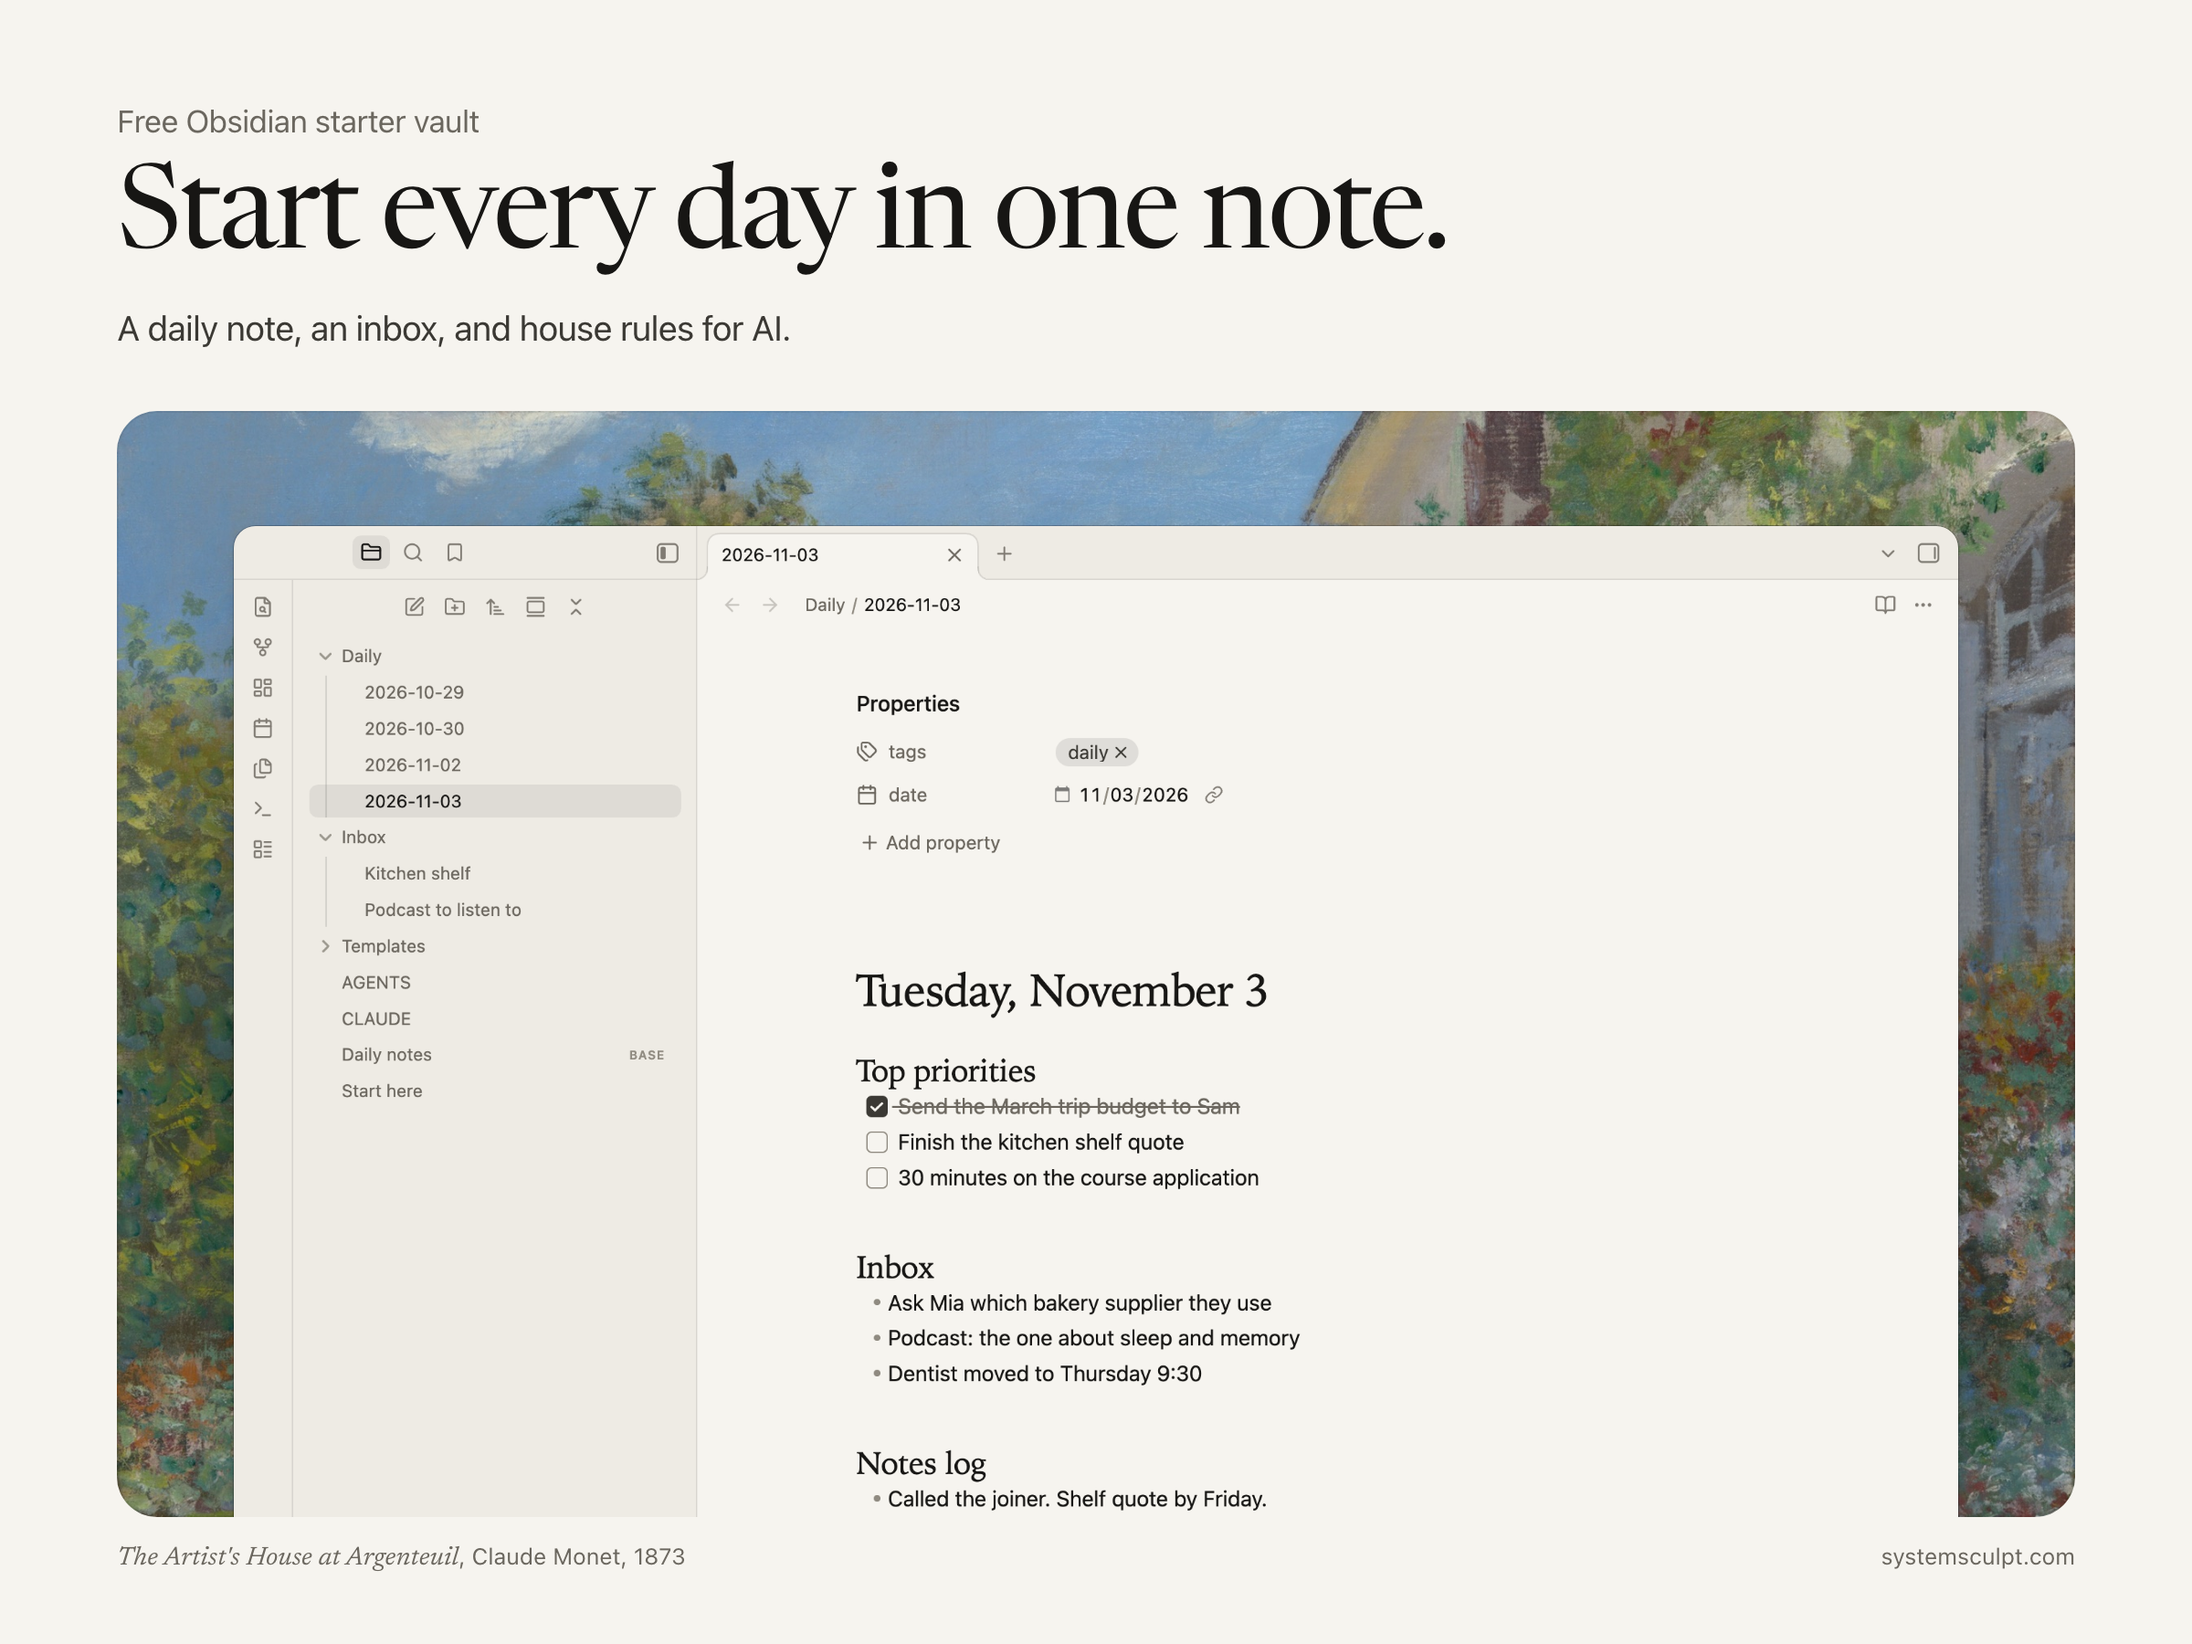
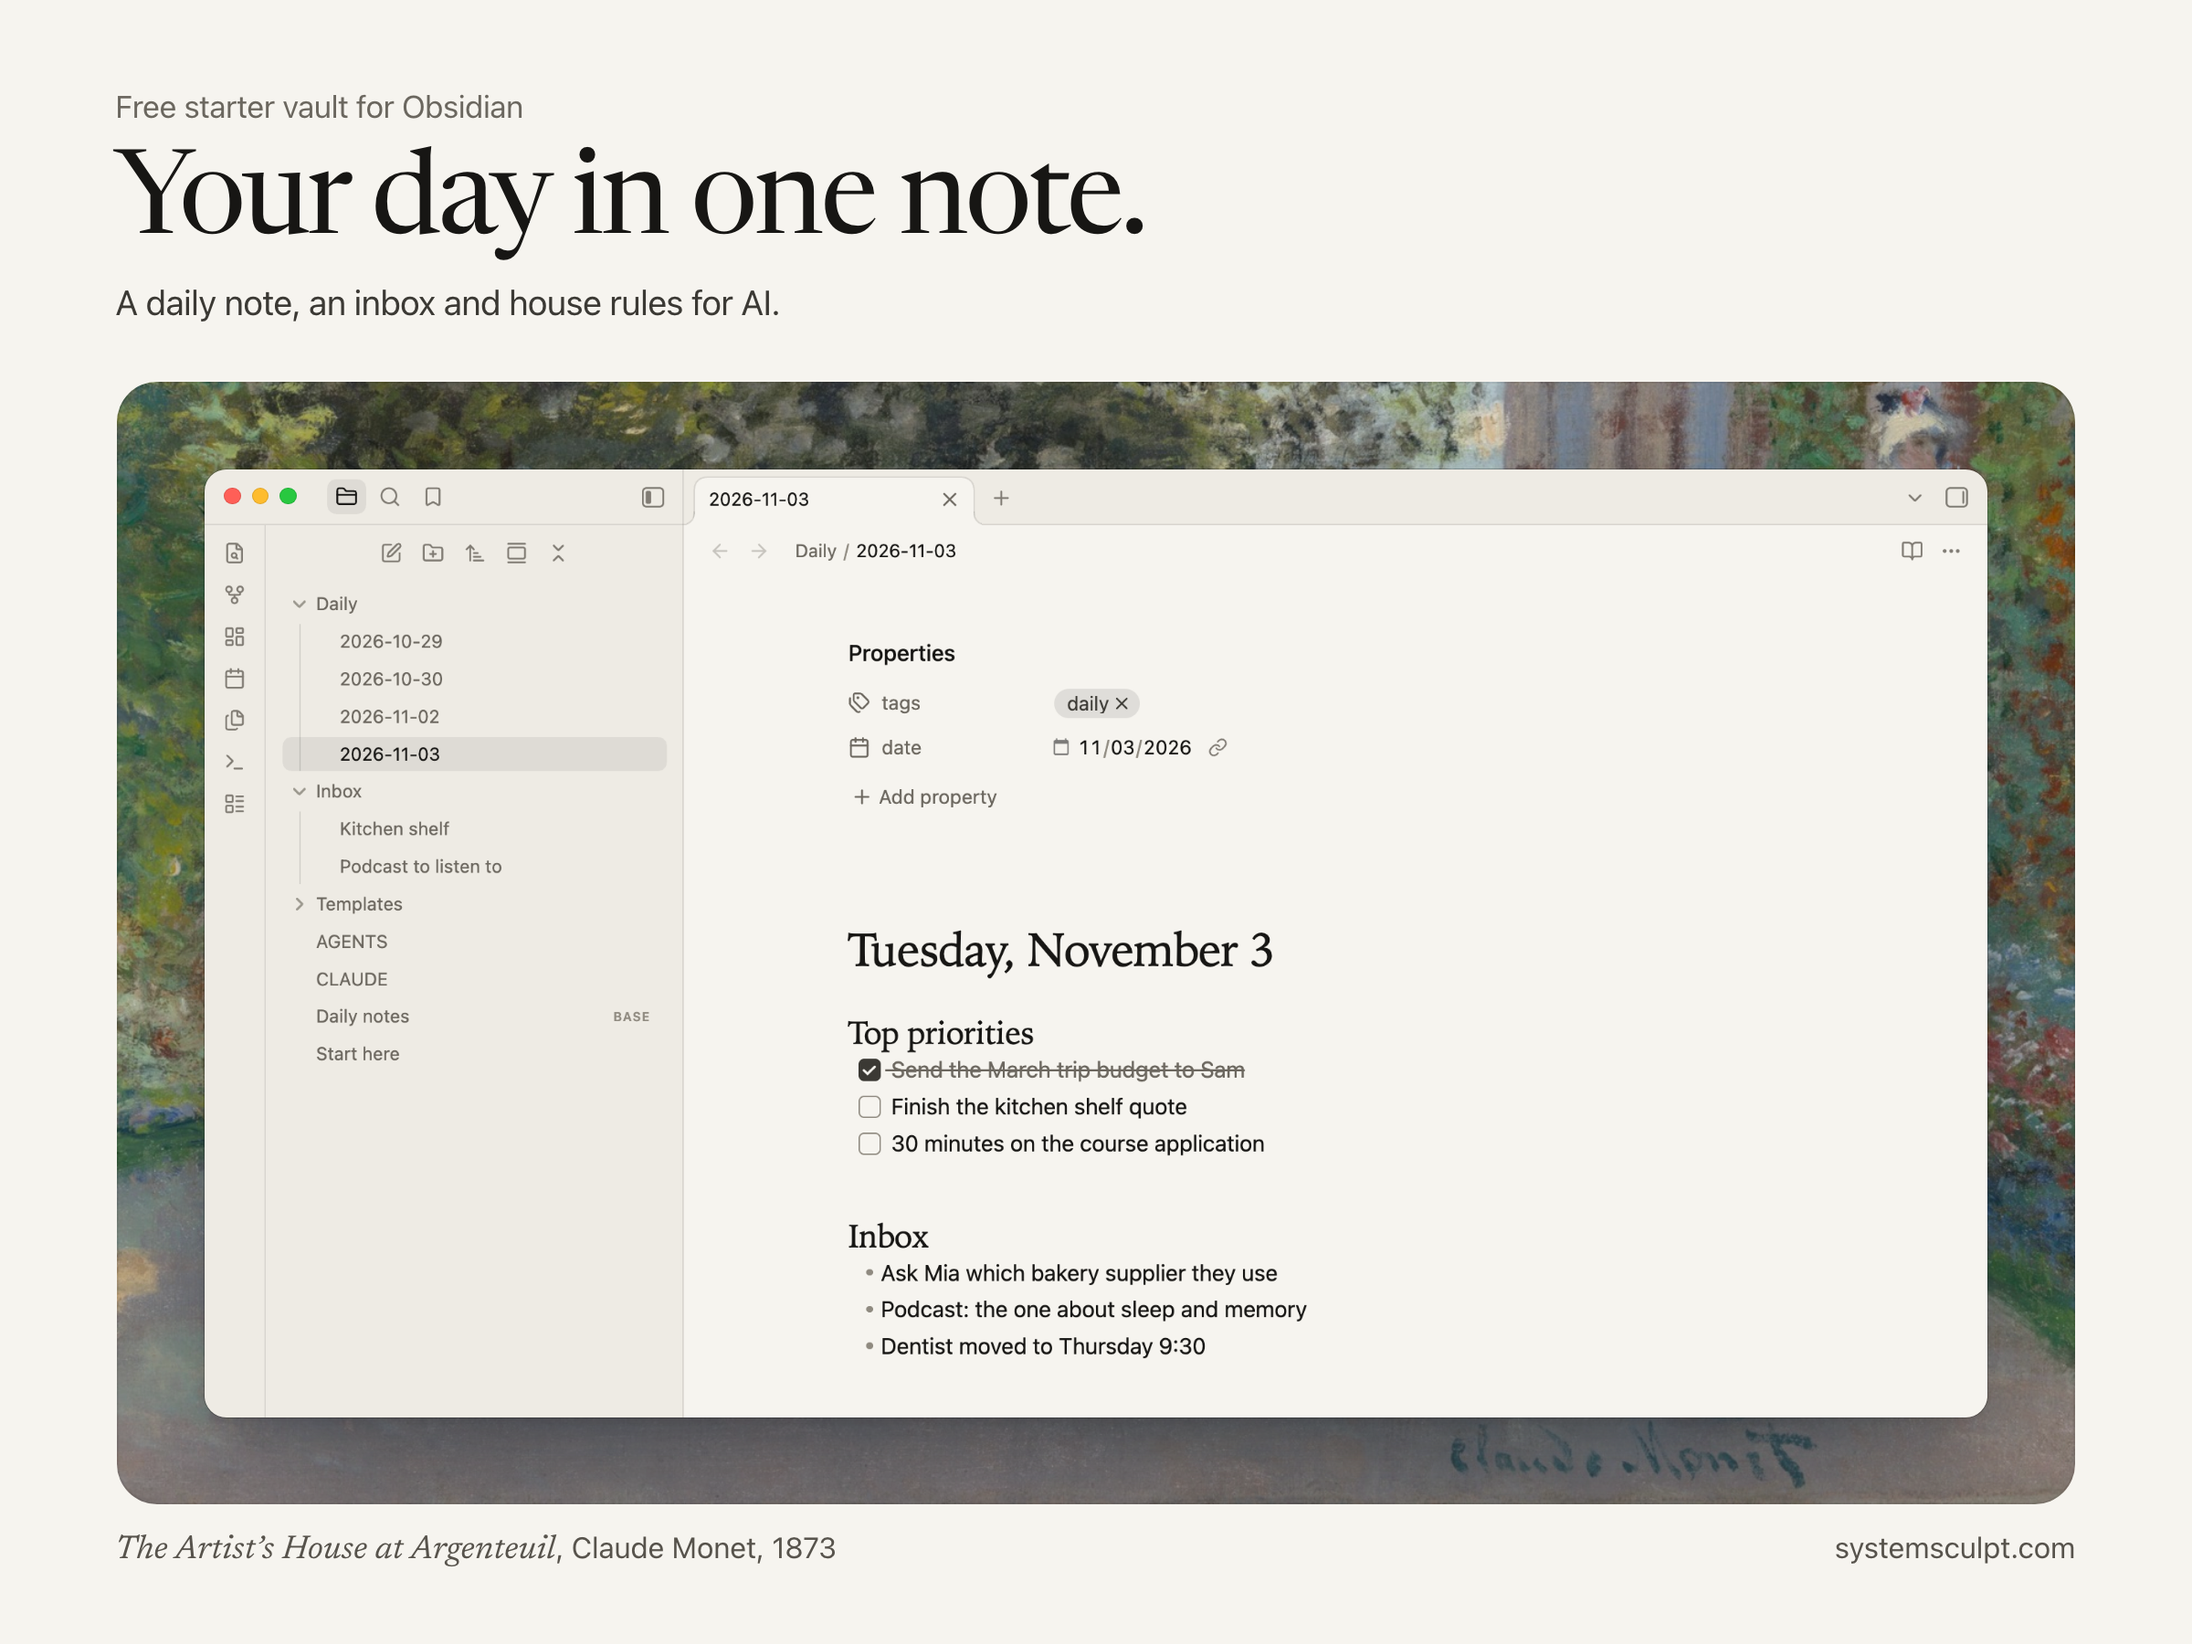
README picture and square from the reviewed build; vault files synced; no paid vault named until it is on sale (T-4830)

Changed region(s): [[0.0312, 0.0622, 0.9688, 0.9644], [0.1562, 0.3733, 0.2188, 0.6844], [0.4688, 0.4356, 0.5312, 0.4978]]

diff --git a/Starter vault/AGENTS.md b/Starter vault/AGENTS.md
@@ -5,10 +5,10 @@ This folder is an Obsidian vault: plain Markdown notes that a person reads and w
 ## Layout
 
 - `Daily/YYYY-MM-DD.md`: one note per day, made from `Templates/Daily note.md`. The file name is the date.
-- `Inbox/`: loose notes that haven't been sorted yet. New notes from Obsidian land here.
+- `Inbox/`: loose notes that haven’t been sorted yet. New notes from Obsidian land here.
 - `Templates/`: templates Obsidian fills in. `{{date}}`, `{{time}}` and `{{title}}` are placeholders; leave them as they are.
 - `Daily notes.base`: an Obsidian Bases view (YAML). Edit it only when asked.
-- `.obsidian/`: Obsidian's settings. Don't touch it.
+- `.obsidian/`: Obsidian’s settings. Don’t touch it.
 
 ## Conventions
 
@@ -16,19 +16,19 @@ This folder is an Obsidian vault: plain Markdown notes that a person reads and w
 - Link notes with wikilinks: `[[2026-11-03]]`, `[[Note name]]`. Keep links working when you rename or move a note.
 - Tasks are `- [ ]` and `- [x]`. Never mark a task done unless the person says it is.
 - Dates are `YYYY-MM-DD`.
-- A daily note's sections, in order: Top priorities, Inbox, Notes log, Open loops, End-of-day review (Recap, Carry forward, Tomorrow).
+- A daily note’s sections, in order: Top priorities, Inbox, Notes log, Open loops, End-of-day review (Recap, Carry forward, Tomorrow).
 
 ## Rules
 
-- These are someone's own notes. Keep their words; don't rewrite them unless asked.
+- These are someone’s own notes. Keep their words; don’t rewrite them unless asked.
 - Ask before you delete a note, move more than a few notes, or change a template.
-- To create today's note, copy `Templates/Daily note.md` to `Daily/YYYY-MM-DD.md` and fill in the date placeholders.
+- To create today’s note, copy `Templates/Daily note.md` to `Daily/YYYY-MM-DD.md` and fill in the date placeholders.
 - When sorting the inbox, move each item into the note it belongs to and link back to where it came from. Leave anything unclear in `Inbox/` and say so.
 - Say what you changed, file by file, when you finish.
 
 ## Common requests
 
-- "Sort my inbox": move dated items into that day's note, everything else into a new or existing note; leave what's unclear.
+- "Sort my inbox": move dated items into that day’s note, everything else into a new or existing note; leave what’s unclear.
 - "Review today": fill in Recap from the Notes log, list unfinished tasks under Carry forward, suggest one line for Tomorrow.
-- "Carry forward": copy yesterday's unfinished tasks into today's Top priorities or Open loops.
+- "Carry forward": copy yesterday’s unfinished tasks into today’s Top priorities or Open loops.
 - "What did I do this week?": read the last seven daily notes and answer with links to each day.

diff --git a/Starter vault/Start here.md b/Starter vault/Start here.md
@@ -1,26 +1,26 @@
 # Start here
 
-A small vault that does one thing well: a daily note, an inbox, and instructions an AI agent can follow.
+A small vault that does one thing well: a daily note, an inbox and instructions an AI agent can follow.
 
 ## Use it
 
-1. Click **Open today's daily note** in the left ribbon. It opens on its own each time you start Obsidian, too.
-2. Put anything you don't want to lose in `Inbox`. New notes land there.
-3. At the end of the day, fill in the review at the bottom of today's note.
+1. Click **Open today’s daily note** in the left ribbon. It opens on its own each time you start Obsidian, too.
+2. Put anything you don’t want to lose in `Inbox`. New notes land there.
+3. At the end of the day, fill in the review at the bottom of today’s note.
 
-[[Daily notes.base|Daily notes]] lists every day you've written, newest first.
+[[Daily notes.base|Daily notes]] lists every day you’ve written, newest first.
 
 ## Work on it with AI
 
 `AGENTS.md` and `CLAUDE.md` tell Claude Code, Codex and other coding agents how this vault works. Open a terminal in this folder and run `claude` or `codex`, then ask, for example:
 
-> Sort my inbox. Move anything with a date into that day's note. Ask before you delete anything.
+> Sort my inbox. Move anything with a date into that day’s note. Ask before you delete anything.
 
 The agent reads and writes ordinary Markdown files. Whatever it reads goes to the provider behind the agent you use.
 
-To chat with Claude Code or Codex inside Obsidian, install the free [SystemSculpt](https://obsidian.md/plugins?id=systemsculpt-ai) plugin. It's optional; nothing here needs it.
+To chat with Claude Code or Codex inside Obsidian, install the free [SystemSculpt](https://obsidian.md/plugins?id=systemsculpt-ai) plugin. It’s optional; nothing here needs it.
 
-## What's inside
+## What’s inside
 
 - `Daily/`: one note per day, named `YYYY-MM-DD`.
 - `Inbox/`: loose notes, waiting to be sorted.
@@ -28,8 +28,8 @@ To chat with Claude Code or Codex inside Obsidian, install the free [SystemSculp
 - `Daily notes.base`: a table of your daily notes.
 - `AGENTS.md`, `CLAUDE.md`: house rules for AI agents.
 
-Everything uses Obsidian's core plugins: Daily notes, Templates and Bases. No community plugins.
+Everything uses Obsidian’s core plugins: Daily notes, Templates and Bases. No community plugins.
 
-Made by [SystemSculpt](https://systemsculpt.com). Free to use and change.
+Made by [SystemSculpt](https://systemsculpt.com). CC BY 4.0: use, change and share it, with credit to SystemSculpt.
 
 Want more? [[Next step]]

diff --git a/README.md b/README.md
@@ -2,28 +2,24 @@
 
 A daily note, an inbox and house rules for AI. Free, from [SystemSculpt](https://systemsculpt.com).
 
-![The starter vault's daily note in Obsidian](.github/preview.png)
+![The starter vault’s daily note in Obsidian](.github/preview.png)
 
 ## Use it
 
 1. [Download the zip](https://github.com/SystemSculpt/obsidian-starter-vault/releases/latest), or clone this repo.
 2. In Obsidian, choose **Open folder as vault** and pick `Starter vault`.
-3. Click **Open today's daily note** in the left ribbon.
+3. Click **Open today’s daily note** in the left ribbon.
 
-## What's inside
+## What’s inside
 
 - **Daily note.** Opens by itself each morning: priorities, inbox, notes, open loops and an end-of-day review.
 - **Inbox.** New notes land there until you sort them.
-- **AGENTS.md and CLAUDE.md.** Claude Code and Codex know how the vault works from the first minute.
-- **Daily notes view.** Every day you've written, in one table.
+- **AGENTS.md and CLAUDE.md.** House rules Claude Code and Codex read before they change anything.
+- **Daily notes view.** Every day you’ve written, in one table.
 
 Plain Markdown. Core plugins only: Daily notes, Templates and Bases.
 
 To chat with Claude Code or Codex inside Obsidian, add the free [SystemSculpt plugin](https://obsidian.md/plugins?id=systemsculpt-ai).
-
-## Want more?
-
-The **AI-ready vault** adds folders, eight agent skills, 60 prompts and an inbox for iPhone captures. See it in the [SystemSculpt shop](https://systemsculpt.com/shop?utm_source=github&utm_medium=readme&utm_campaign=starter-vault).
 
 ## Licence
 

diff --git a/Starter vault/Next step.md b/Starter vault/Next step.md
@@ -1,5 +1,3 @@
 # Next step
 
-The **AI-ready vault** adds folders, eight agent skills, 60 prompts and an inbox for iPhone captures. [systemsculpt.com/shop](https://systemsculpt.com/shop)
-
 Free SystemSculpt account: [systemsculpt.com/sign-up](https://systemsculpt.com/sign-up)
